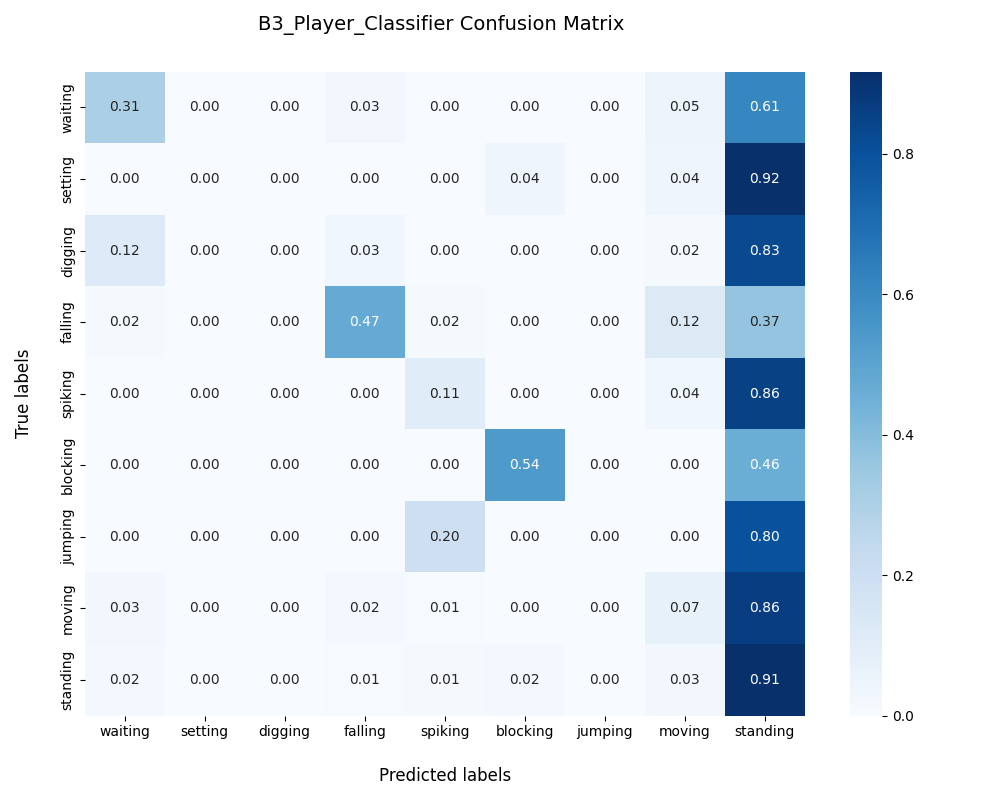
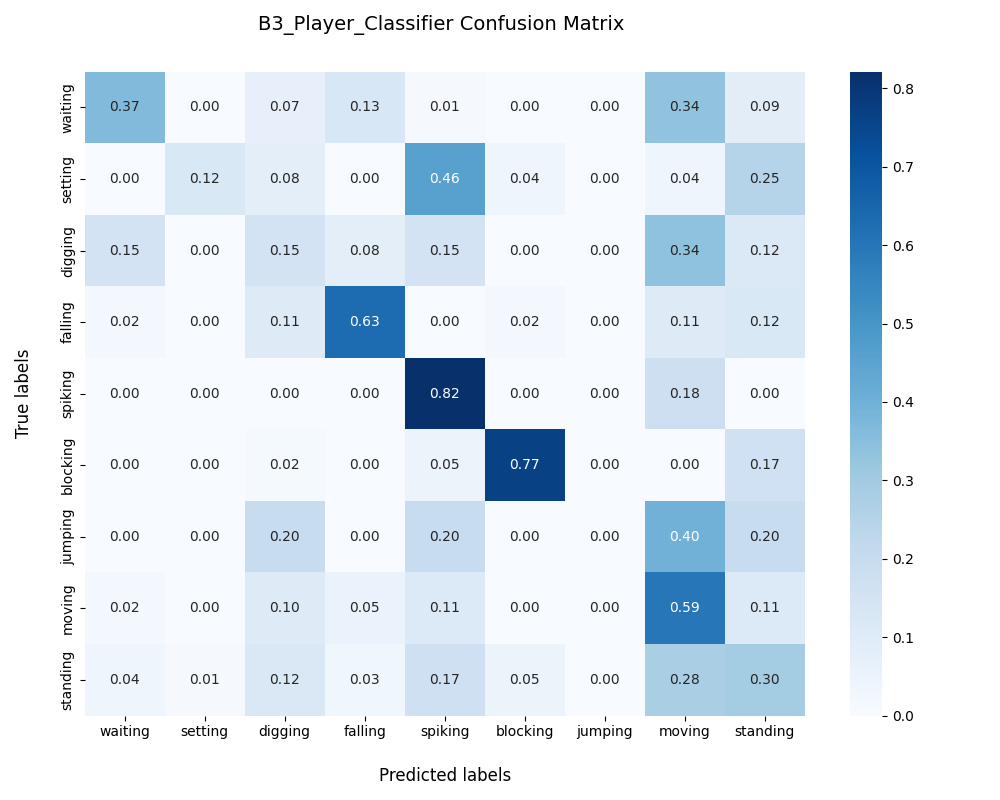
remove save comment

diff --git a/train/b3_group_classifier_train.py b/train/b3_group_classifier_train.py
@@ -53,7 +53,7 @@ test_loader=DataLoader(test_dataset,batch_size=batch_size,shuffle=False,num_work
 # Setup
 device = torch.device("cuda" if torch.cuda.is_available() else "cpu")
 backbone=B3_Player_Classifier(num_player_actions)
-backbone.load_state_dict(torch.load('checkpoints/b3_player_classifier_best_model_checkpoint.pth',weights_only=True,map_location=device)['model_state_dict'],strict=False)
+backbone.load_state_dict(torch.load('checkpoints/b3_player_classifier_best_model_checkpoint.pth',weights_only=True,map_location=device)['model_state_dict'])
 model=B3_Group_Classifier(backbone,num_group_actions)
 model=model.to(device)
 criterion = nn.CrossEntropyLoss()
@@ -63,7 +63,7 @@ scheduler = torch.optim.lr_scheduler.ReduceLROnPlateau(optimizer, mode=conf_dict
 
 # Train
 os.makedirs('checkpoints',exist_ok=True)
-checkpoint_path='checkpoints/b3_group_classifier_best_mode_checkpoint.pth'
+checkpoint_path='checkpoints/b3_group_classifier_best_model_checkpoint.pth'
 train(model,criterion,optimizer,scheduler,train_loader,val_loader,n_epoch,device,checkpoint_path,ind_step=100,early_stop=3)
 
 

diff --git a/train/b3_player_classifier_train.py b/train/b3_player_classifier_train.py
@@ -113,7 +113,7 @@ def evaluate(model,criterion,loader,device,pred_need):
 
 
 os.makedirs('checkpoints',exist_ok=True)
-checkpoint_path='checkpoints/b3_player_classifier_best_mode_checkpoint.pth'
+checkpoint_path='checkpoints/b3_player_classifier_best_model_checkpoint.pth'
 best_loss=float('inf') 
 no_update=0
 choosen_epoch=0
@@ -125,7 +125,7 @@ def update_checkpint(epoch):
     'epoch': epoch,
     'best_loss': best_loss
     }
-   # torch.save(checkpoint,checkpoint_path)
+    torch.save(checkpoint,checkpoint_path)
 
 for epoch in range(n_epoch):
     loss_sum_train=0
